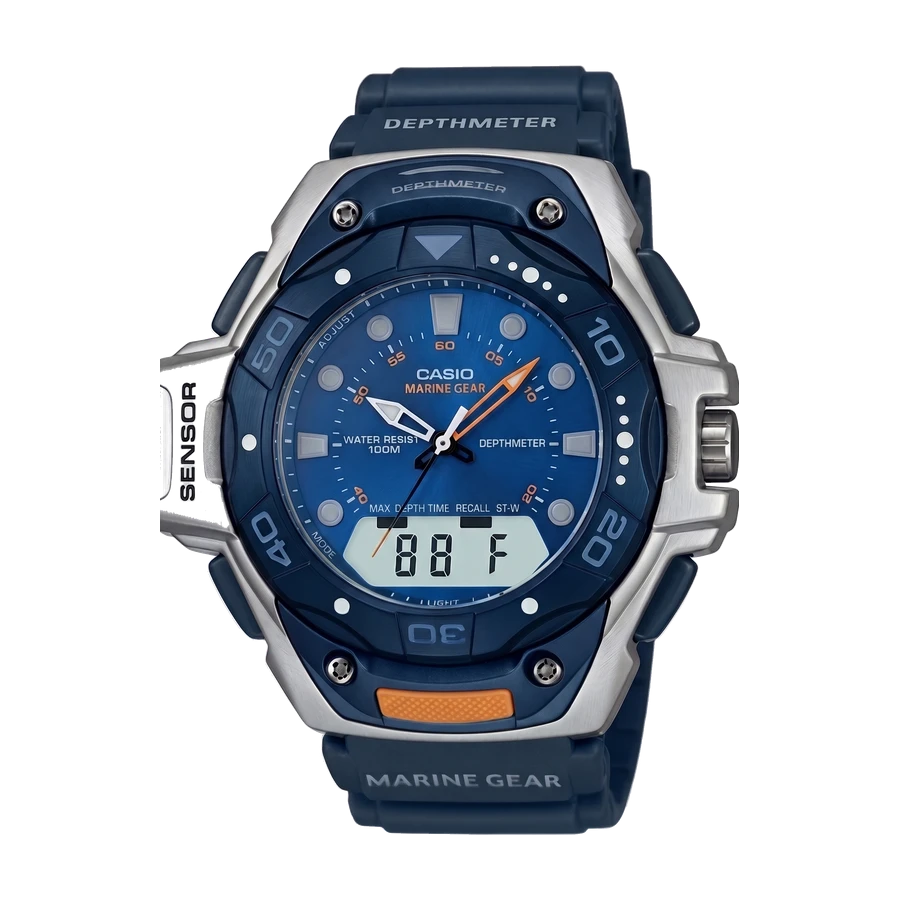
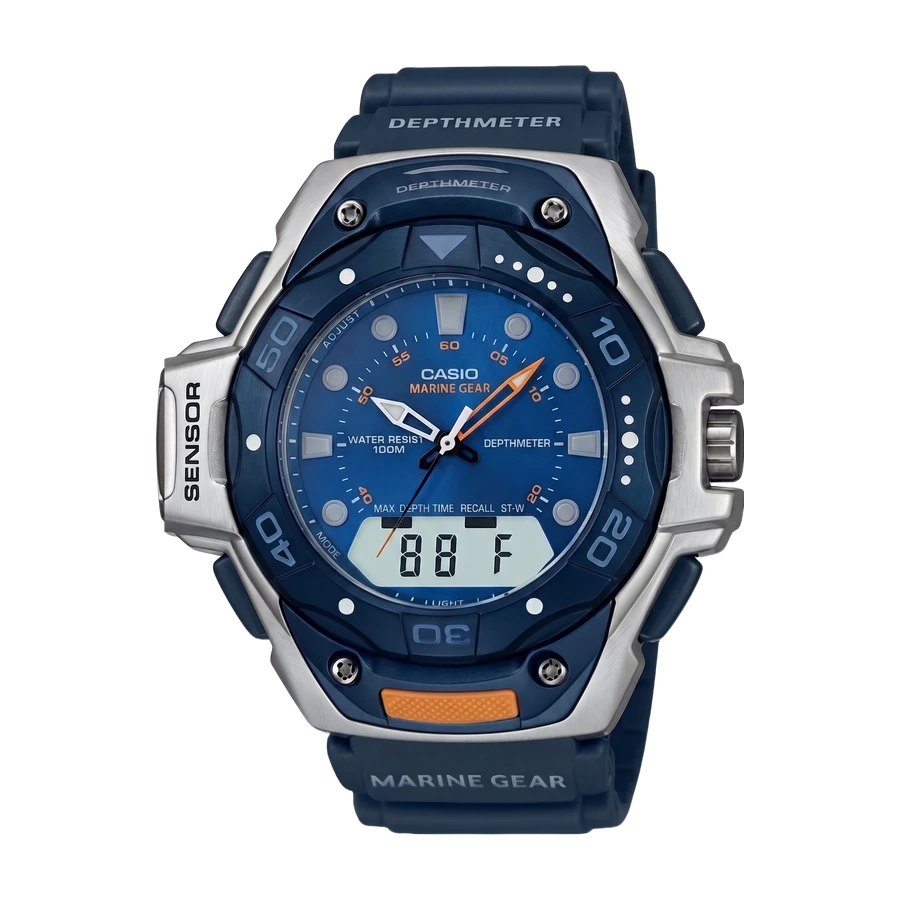
MRS-301: Photoshop kesimini kullan, asillari sakla, fotograf büyütme ekle
GÖRSEL: kullanici fonu Photoshop ile temizleyip PNG olarak yükledi. Betige
'zaten kesilmis' yolu eklendi — girdinin alfasi varsa ve %5'ten fazlasi
saydamsa fon silme tamamen atlanip yalnizca çerçeveleme yapiliyor
(CUTOUT=force ile zorlanabilir). Otomatik kesim bu görselde çalismiyordu:
firçalanmis çelikte fona uzakligi 1 olan pikseller var, hangi esik denenirse
denensin ya hale kaliyor ya SENSOR muhafazasi siliniyordu.

ASILLAR: artik silinmiyor, photos/originals/ altinda duruyor (hem Photoshop
PNG'si hem ham JPEG). build.mjs bunlari dist/e kopyalamiyor — yayin 1,5 MB
kaliyor, asillar 9,8 MB.

BÜYÜTME: detay sayfasinda fotografa tiklayinca tam boyutunda açiliyor.
Panelde ~250 px görünen görsel 836 px'e çikiyor. Escape, kapatma dügmesi ve
bosluga tiklama kapatiyor; klavyeyle de açilabiliyor (Enter/Space).

Claude-Session: https://claude.ai/code/session_01DDidaivs2B3H4tBARHLYJm

Changed region(s): [[0.1556, 0.0933, 0.84, 0.9333], [0.3733, 0.8711, 0.4044, 0.9333], [0.3733, 0.0933, 0.4044, 0.1556]]

diff --git a/assets/js/views/detail.js b/assets/js/views/detail.js
@@ -167,15 +167,54 @@ function sourceNote(watch) {
     watch.source.fetchedAt ? ` · ${fmtDate(watch.source.fetchedAt)}` : '');
 }
 
+/* Fotoğrafa tıklayınca büyük hâli. Görseller 900×900 saklanıyor ama panelde
+ * ~400 px görünüyor; büyütme onları tam boyutunda gösteriyor. */
+function openLightbox(src, alt) {
+  const previous = document.activeElement;
+  const close = () => {
+    box.remove();
+    document.removeEventListener('keydown', onKey);
+    if (previous && previous.focus) previous.focus();
+  };
+  const onKey = (e) => { if (e.key === 'Escape') close(); };
+
+  const button = el('button.lightbox-close', {
+    type: 'button', 'aria-label': 'Kapat', onclick: close,
+  }, '×');
+
+  const box = el('div.lightbox', {
+    role: 'dialog', 'aria-modal': 'true', 'aria-label': alt,
+    // Boşluğa tıklayınca kapansın; görselin kendisine tıklamak kapatmasın.
+    onclick: (e) => { if (e.target === box) close(); },
+  }, el('img', { src, alt }), button);
+
+  document.addEventListener('keydown', onKey);
+  document.body.append(box);
+  button.focus();
+}
+
+function zoomable(src, alt, extra = {}) {
+  return el('img.zoomable', {
+    src, alt, role: 'button', tabindex: '0',
+    title: 'Büyütmek için tıkla',
+    onclick: () => openLightbox(src, alt),
+    onkeydown: (e) => {
+      if (e.key === 'Enter' || e.key === ' ') { e.preventDefault(); openLightbox(src, alt); }
+    },
+    ...extra,
+  });
+}
+
 function photoPanel(watch) {
   const photos = watch.photos || [];
   return el('div.card',
     el('div.watch-photo', { style: { borderRadius: '8px', border: '1px solid var(--border)', marginBottom: photos.length > 1 ? '12px' : '0' } },
       photos[0]
-        ? el('img', { src: photos[0], alt: watchLabel(watch) })
+        ? zoomable(photos[0], watchLabel(watch))
         : el('span.placeholder', { 'aria-hidden': 'true' }, '⌚')),
     photos.length > 1 && el('div.gallery',
-      photos.slice(1).map((src, i) => el('img', { src, alt: `${watchLabel(watch)} — fotoğraf ${i + 2}`, loading: 'lazy' }))),
+      photos.slice(1).map((src, i) =>
+        zoomable(src, `${watchLabel(watch)} — fotoğraf ${i + 2}`, { loading: 'lazy' }))),
     !photos.length && el('p.muted', { style: { margin: '10px 0 0', textAlign: 'center' } },
       'Fotoğraf eklemek için dosyayı photos/ klasörüne koy ve yolunu saat kaydına yaz.'),
   );

diff --git a/assets/css/styles.css b/assets/css/styles.css
@@ -267,6 +267,33 @@ textarea { min-height: 72px; resize: vertical; width: 100%; }
 .watch-photo img { width: 100%; height: 100%; object-fit: contain; display: block; }
 .watch-photo .placeholder { font-size: 40px; opacity: .28; }
 
+/* --- Büyütme --------------------------------------------------------------
+   Görseller 900×900 saklanıyor, panelde ~400 px görünüyor. Tıklayınca tam
+   boyutunda açılıyor. */
+.zoomable { cursor: zoom-in; }
+.zoomable:focus-visible { outline: 2px solid var(--accent); outline-offset: 2px; }
+
+.lightbox {
+  position: fixed; inset: 0; z-index: 90;
+  display: flex; align-items: center; justify-content: center;
+  padding: 32px;
+  background: rgba(0, 0, 0, .82);
+  cursor: zoom-out;
+}
+.lightbox img {
+  max-width: min(100%, 900px); max-height: 100%;
+  object-fit: contain; cursor: default;
+}
+.lightbox-close {
+  position: absolute; top: 14px; right: 18px;
+  width: 38px; height: 38px; border-radius: 50%;
+  border: 1px solid rgba(255, 255, 255, .3);
+  background: rgba(0, 0, 0, .45); color: #fff;
+  font-size: 22px; line-height: 1; cursor: pointer;
+}
+.lightbox-close:hover { background: rgba(0, 0, 0, .7); }
+@media (max-width: 600px) { .lightbox { padding: 16px; } }
+
 .watch-body { padding: 14px 16px 16px; display: flex; flex-direction: column; gap: 3px; flex: 1; }
 .watch-brand { font-size: 12px; letter-spacing: .07em; text-transform: uppercase; color: var(--text-muted); }
 .watch-model { font-size: 15px; font-weight: 600; letter-spacing: -0.01em; }

diff --git a/CLAUDE.md b/CLAUDE.md
@@ -179,9 +179,12 @@ metinler (`tagline`, `story`) `{ en, tr }` biçiminde. Arayüz şu an tek dil
 2. **Kaynağın vermediği alanlar** — kadran rengi, kayış rengi, cam formu ve
    üretim yılı Casio'nun teknik tablosunda **yok**. Model kodundan/görselden
    çıkarım gerekir → mutlaka kullanıcıya sorulacak, tahmin yazılmayacak.
-3. ~~`MRS-301-2E` görseli~~ — **tamam.** Kullanıcı GitHub üzerinden yükledi;
-   fon kenarlardan taşma-doldurma ile silinip diğerleriyle aynı biçime sokuldu
-   (saydam zemin, 900×900 WebP). Betik: `scripts/normalize-photo.mjs`.
+3. ~~`MRS-301-2E` görseli~~ — **tamam.** Fonu **kullanıcı Photoshop ile**
+   temizledi; betik yalnızca çerçeveledi (saydam zemin, 900×900 WebP).
+   Otomatik kesim bu görselde çalışmadı: fırçalanmış çelikte fona uzaklığı 1
+   olan, yani fonla birebir aynı renkte pikseller var — hangi eşik denenirse
+   denensin ya hale kalıyor ya SENSOR muhafazası siliniyordu. **Ders:** böyle
+   bir çakışma varsa otomatikte ısrar etme, elle kesim iste.
    Üretim bilgisi `source.imageFrom` alanında duruyor; **ön yüzde
    gösterilmiyor** (`sourceNote` yalnızca `productUrl` + `fetchedAt` basıyor).
 4. **`MRS-301-2E` satın alma tarihi** tabloda yok — kullanıcıyla konuşulacak.
@@ -226,6 +229,10 @@ metinler (`tagline`, `story`) `{ en, tr }` biçiminde. Arayüz şu an tek dil
   sabit sırasına bağlıdır, sıralamaya değil. 8'den fazla saatte renk bırakılır
   ve kimlik yalnızca yazıyla taşınır. Paleti değiştirirsen dataviz
   doğrulayıcısını tekrar çalıştır.
+- **İşlenmemiş asıllar `photos/originals/` altında saklanır** ve `build.mjs`
+  bunları `dist/`e kopyalamaz (`SKIP` listesi) — depoda duruyorlar ama Pages
+  yayınını şişirmiyorlar. Sitede gösterilen 900×900 WebP'ler `photos/casio/`.
+- Detay sayfasında fotoğrafa tıklayınca büyük hâli açılır (Escape kapatır).
 - `id` alanı sabittir; değiştirirsen `data/wears.json` içindeki `watchId`
   değerlerini de güncelle.
 
